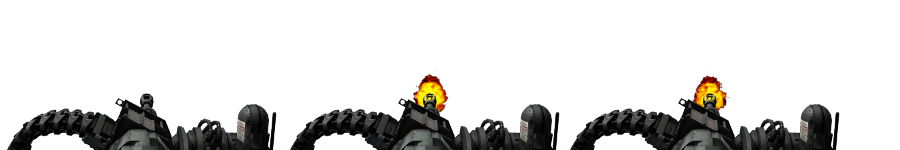
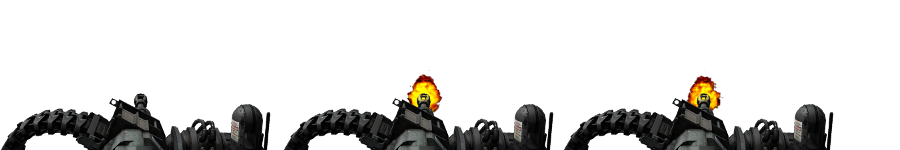
gunshot effect

Changed region(s): [[0.0, 0.48, 0.9333, 1.0]]

diff --git a/src/state/DamageParticles.js b/src/state/DamageParticles.js
@@ -4,26 +4,55 @@ import GameObject from './GameObject'
 import GameObjectTypes from '../shared/enum/GameObjectTypes'
 import SpriteAnimation from './components/SpriteAnimation'
 
-const LIFETIME = 500
-const TEXTURE_URL = '/assets/sprites/monster.png'
-const TEXTURE_SCALE = [ 0.081, 0.067 ]
-const SIZE = 2
+export const EffectTypes = {
+  EnemyHit: 'EnemyHit',
+  Sparks: 'Sparks',
+}
 
-const animationDefs = {
-  default: {
-    frames: [
-      { u: 0.015, v: 0.002 },
-      { u: 0.138, v: 0.002 },
-      { u: 0.259, v: 0.002 },
-      { u: 0.389, v: 0.002 },
-      { u: 0.521, v: 0.002 },
-      { u: 0.652, v: 0.002 },
-      { u: 0.784, v: 0.002 },
-      { u: 0.915, v: 0.002 },
-    ],
-    duration: 700,
-    loop: false,
+const SPARK_OFFSET = 0.081
+
+const effectDefs = {
+  [ EffectTypes.EnemyHit ]: {
+    textureUrl: '/assets/sprites/monster.png',
+    textureScale: [ 0.081, 0.067 ],
+    size: 1,
+    animationDefs: {
+      default: {
+        frames: [
+          { u: 0.015, v: 0.002 },
+          { u: 0.138, v: 0.002 },
+          { u: 0.259, v: 0.002 },
+          { u: 0.389, v: 0.002 },
+          { u: 0.521, v: 0.002 },
+          { u: 0.652, v: 0.002 },
+          { u: 0.784, v: 0.002 },
+          { u: 0.915, v: 0.002 },
+        ],
+        duration: 500,
+        loop: false,
+      },
+    },
   },
+  [ EffectTypes.Sparks ]: {
+    textureUrl: '/assets/sprites/sparks_effect.png',
+    textureScale: [ 1, 1/12 ],
+    size: 1.5,
+    animationDefs: {
+      default: {
+        frames: [
+          { u: 0, v: 12*SPARK_OFFSET },
+          { u: 0, v: 10*SPARK_OFFSET },
+          { u: 0, v: 8*SPARK_OFFSET },
+          { u: 0, v: 6*SPARK_OFFSET },
+          { u: 0, v: 4*SPARK_OFFSET },
+          { u: 0, v: 2*SPARK_OFFSET },
+          { u: 0, v: 0*SPARK_OFFSET },
+        ],
+        duration: 200,
+        loop: false,
+      },
+    },
+  }
 }
 
 class DamageParticles extends GameObject {
@@ -32,31 +61,39 @@ class DamageParticles extends GameObject {
 
   constructor( props ) {
     super( props )
+
+    const effectDef = effectDefs[ this.props.effectType ]
     this.addComponent( new SpriteAnimation({
       parent: this,
       camera: props.gameState.camera,
-      animationDefs: animationDefs,
+      animationDefs: effectDef.animationDefs,
       texture: this.texture,
     }))
 
     this.components.animation.setAnimation( 'default' )
 
-    setTimeout( this.remove, LIFETIME )
+    setTimeout( this.remove, effectDef.animationDefs.default.duration )
   }
 
   createSceneObject() {
     const {
       position,
+      effectType,
     } = this.props
+
+    const effectDef = effectDefs[ effectType ]
     
-    this.texture = new THREE.TextureLoader().load( TEXTURE_URL )
+    this.texture = new THREE.TextureLoader().load( effectDef.textureUrl )
     this.texture.magFilter = THREE.NearestFilter //Pixelate!
     this.texture.minFilter = THREE.NearestFilter //Pixelate!
-    this.texture.repeat.set( TEXTURE_SCALE[ 0 ], TEXTURE_SCALE[ 1 ])
-    const spriteMaterial = new THREE.SpriteMaterial({ map: this.texture })
+    this.texture.repeat.set( effectDef.textureScale[ 0 ], effectDef.textureScale[ 1 ])
+    const spriteMaterial = new THREE.SpriteMaterial({
+      map: this.texture,
+      rotation:  Math.random() * Math.PI * 2,
+    })
     const sceneObject = new THREE.Sprite( spriteMaterial )
     
-    sceneObject.scale.set( SIZE, SIZE )
+    sceneObject.scale.set( effectDef.size, effectDef.size )
     sceneObject.position.set( position.x, position.y, position.z )
     
     return sceneObject

diff --git a/src/state/PlayerWeapon/BaseWeapon.js b/src/state/PlayerWeapon/BaseWeapon.js
@@ -4,7 +4,10 @@ import { observable } from 'mobx'
 import UiAnimation from '../components/UiAnimation'
 import { nearestRaycastGameObject } from '../../shared/sceneUtils'
 import GameObjectTypes from '../../shared/enum/GameObjectTypes'
-import DamageParticles from '../DamageParticles'
+import DamageParticles, { EffectTypes } from '../DamageParticles'
+
+const CAMERA_AIM_Y_OFFSET = 0.08;
+const CAMERA_Y_SPREAD_MULTIPLIER = 1.8; // Account for the fact that the viewport is wider than it is tall
 
 export default class BaseWeapon {
   
@@ -78,7 +81,7 @@ export default class BaseWeapon {
       const raycast = new THREE.Raycaster()
       const spreadVector = new THREE.Vector2(
         -spread/2 + Math.random() * spread,
-        -spread/2 + Math.random() * spread/2,
+        (-spread/2 + Math.random() * spread/2 + CAMERA_AIM_Y_OFFSET) * CAMERA_Y_SPREAD_MULTIPLIER,
       )
       raycast.setFromCamera(
         spreadVector,
@@ -96,8 +99,12 @@ export default class BaseWeapon {
           gameObject.components.health.takeDamage( damage )
         }
 
+        const shiftedImpactPoint = point.clone().sub( this.player.sceneObject.position ).normalize()
+        const effectType = gameObject.type === GameObjectTypes.Enemy ? EffectTypes.EnemyHit : EffectTypes.Sparks
+
         this.gameState.addGameObject( DamageParticles, {
-          position: point
+          position: point.sub( shiftedImpactPoint ),
+          effectType,
         })
       }
     }

diff --git a/src/state/PlayerWeapon/Shotgun.js b/src/state/PlayerWeapon/Shotgun.js
@@ -57,7 +57,7 @@ const animationDefs = {
 }
 
 const DAMAGE = 5
-const SPREAD = 0.12
+const SPREAD = 0.13
 const PELLETS = 6
 
 export default class Shotgun extends BaseWeapon {

diff --git a/src/state/PlayerWeapon/MachineGun.js b/src/state/PlayerWeapon/MachineGun.js
@@ -47,7 +47,7 @@ const animationDefs = {
 }
 
 const DAMAGE = 5
-const SPREAD = 0.1
+const SPREAD = 0.2
 
 export default class MachineGun extends BaseWeapon {
 

diff --git a/readme.md b/readme.md
@@ -13,3 +13,4 @@ https://sketchfab.com/3d-models/model-d00m-1-shotgun-200ed3469c024e4e991fabb6eb2
 https://sketchfab.com/3d-models/sentry-chaingun-4e3a944d7ffe4307b70f47b399e4b7e7
 https://sketchfab.com/3d-models/puckle-1718-af6aa8bdecbb470a88b029118b915549
 https://sketchfab.com/3d-models/sci-fi-rocket-cc03a630a1c24e62b64186588560cc55
+https://opengameart.org/content/5x-special-effects-2d
